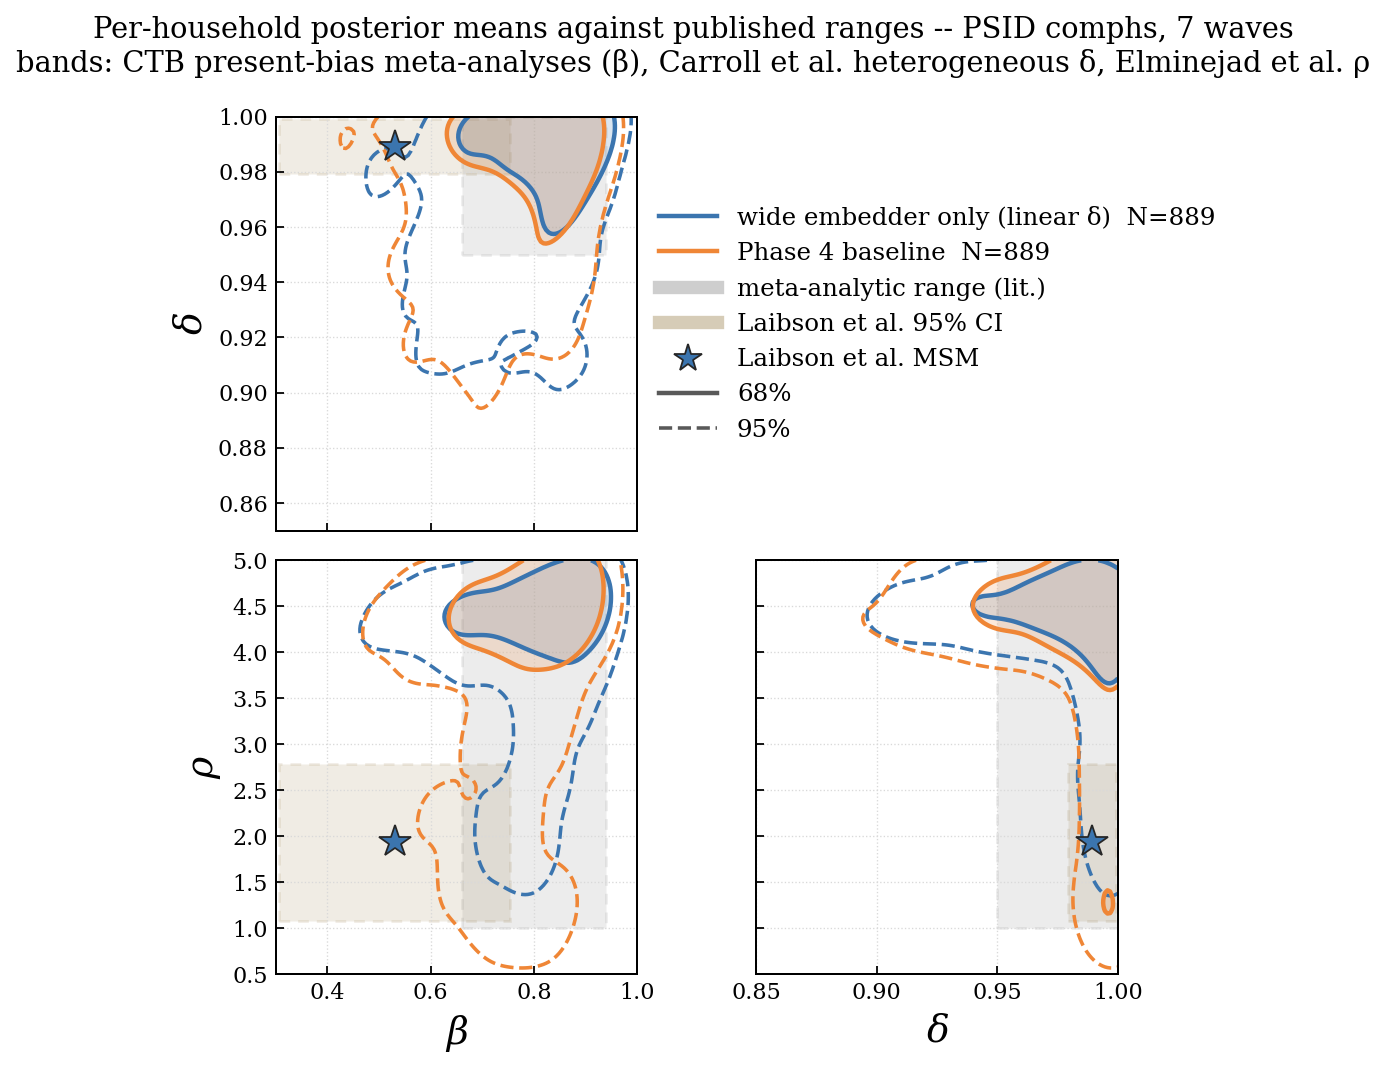
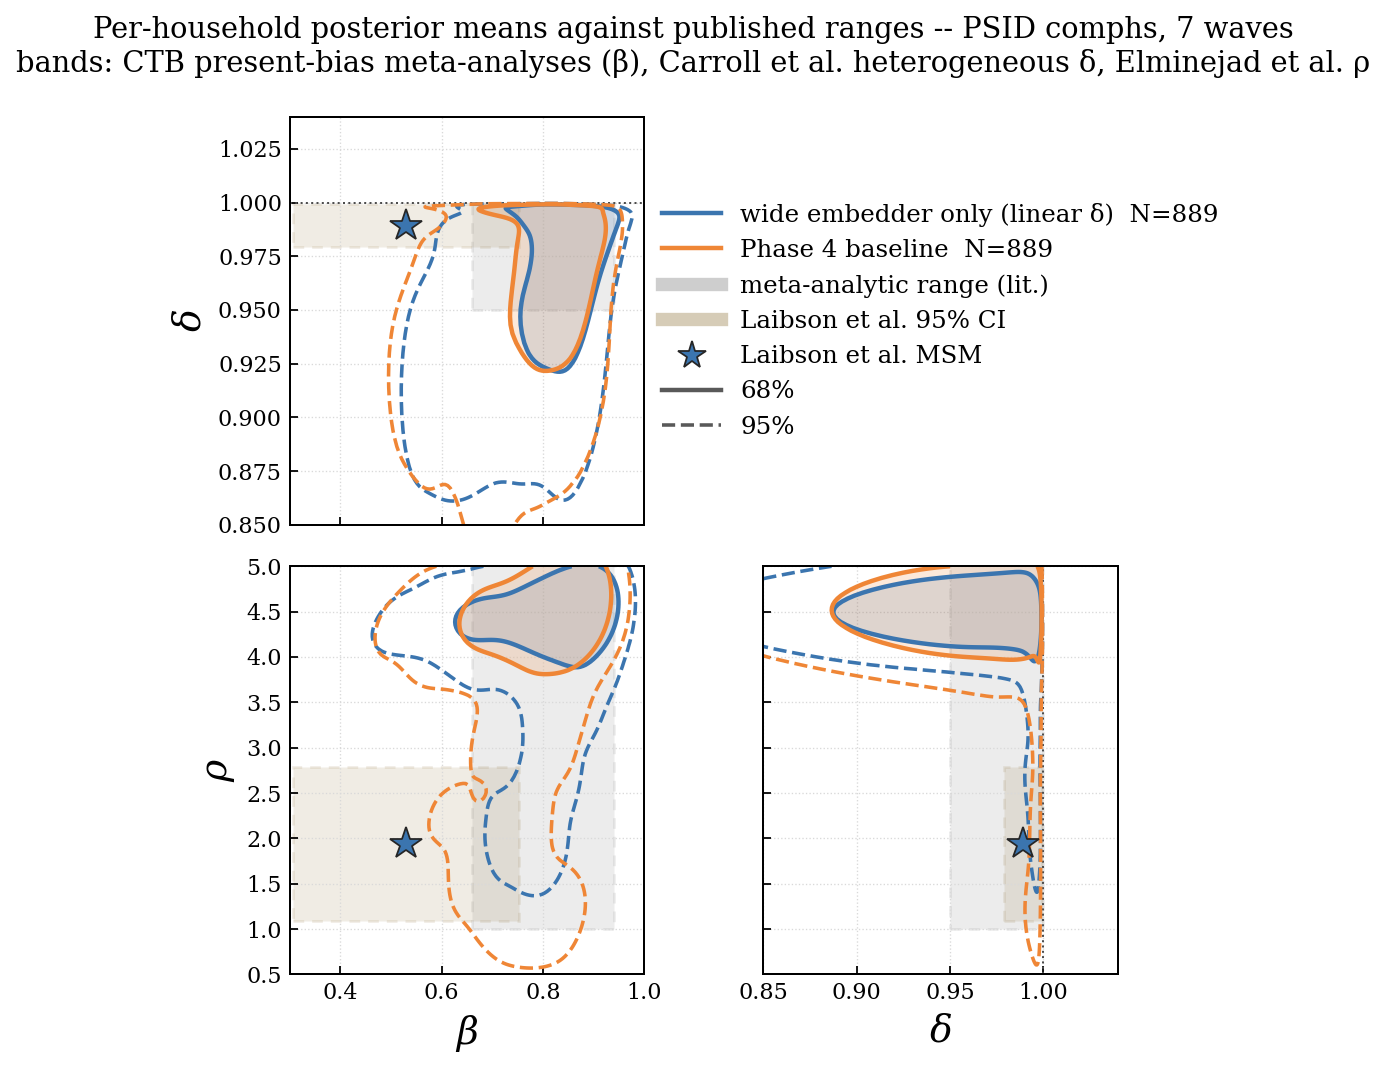
Smooth delta in log(1-delta) space so contours stop drawing the bound
Figure 08 showed a contour running flat along delta = 1.00 even for the
log(1-delta) model, which cannot put delta at or above 1 (max posterior mean
0.999615). The flat edge was a plotting artefact: 48% of comphs households
have posterior means above 0.995 and 22% above 0.998, a pile narrower than
the Gaussian kernel, so the smoothed density spilled past 1 and a grid cut
at 1 drew the contour along the bound.

contour_corner gains log1m_axes. For a listed axis the grid, the KDE fit and
the HPD level computation all happen in u = log(1 - v), with equal cells in
u so _hpd_levels stays valid, and only the coordinates are mapped back for
drawing. The regions are the same credible regions -- mass is invariant to
coordinates -- but now close below 1: the 68% region tops out at delta
0.99932 and the 95% at 0.999659.

Also adds axis_limits, which widens the axes without extending the density,
with the prior bound drawn dotted; figures 08 and 09 now show delta to 1.04.

Adds run_groups_adopted.sh (both section 20 configurations trained for
somehs and compco, then PSID) and plot_groups.sh for their figures.

diff --git a/src/hh_npe/evaluation/plots.py b/src/hh_npe/evaluation/plots.py
@@ -38,20 +38,52 @@ def _hpd_levels(density: np.ndarray, probs=(0.68, 0.95)) -> list[float]:
     return [float(flat[np.searchsorted(csum, p)]) for p in probs][::-1]
 
 
-def _kde_grid(x: np.ndarray, y: np.ndarray, lo, hi, n: int = 140):
+#: Smoothing coordinate for an axis bounded above by 1: u = log(1 - v). The
+#: grid runs to v = 1 - 1e-5, beyond which no posterior mean has been observed
+#: (max 0.99962); the mass past it is negligible and simply not drawn.
+_LOG1M = (lambda v: np.log(1.0 - v), lambda u: 1.0 - np.exp(u), 1e-5)
+
+
+def _axis_grid(lo, hi, n, log1m):
+    """Grid for one axis, uniform in the space the KDE is fitted in."""
+    if not log1m:
+        return np.linspace(lo, hi, n)
+    fwd, _inv, eps = _LOG1M
+    # Uniform in u, running from the low end of v up to v = 1 - eps.
+    return np.linspace(fwd(min(hi, 1.0 - eps)), fwd(lo), n)
+
+
+def _kde_grid(x: np.ndarray, y: np.ndarray, lo, hi, n: int = 140,
+              log1m=(False, False)):
+    """KDE on a grid, optionally fitted in log(1 - v) for either axis.
+
+    With ``log1m`` set for an axis the grid, the fit AND the HPD level
+    computation all happen in ``u = log(1 - v)`` -- equal cells in u, so
+    ``_hpd_levels`` stays valid -- and only the returned coordinates are mapped
+    back to v for drawing. A region holding 68% of the mass holds 68% in any
+    coordinates, so the contours are the same credible regions; what changes is
+    that a Gaussian kernel no longer has to represent a hard wall at v = 1. In
+    v it cannot: households piled at 0.995-0.9996 are narrower than the kernel,
+    the smoothed density spills past 1, and a grid cut at 1 draws a flat contour
+    along the bound that no household produced.
+    """
     from scipy.stats import gaussian_kde
 
-    gx = np.linspace(lo[0], hi[0], n)
-    gy = np.linspace(lo[1], hi[1], n)
+    fwd, inv, _ = _LOG1M
+    gx = _axis_grid(lo[0], hi[0], n, log1m[0])
+    gy = _axis_grid(lo[1], hi[1], n, log1m[1])
     X, Y = np.meshgrid(gx, gy)
+    xf = fwd(x) if log1m[0] else x
+    yf = fwd(y) if log1m[1] else y
     try:
-        k = gaussian_kde(np.vstack([x, y]))
+        k = gaussian_kde(np.vstack([xf, yf]))
     except np.linalg.LinAlgError:
         # A posterior that has collapsed to a point has a singular covariance;
         # nothing to contour, and silently drawing nothing is better than
         # aborting a whole figure over one degenerate series.
         return X, Y, None
-    return X, Y, k(np.vstack([X.ravel(), Y.ravel()])).reshape(X.shape)
+    Z = k(np.vstack([X.ravel(), Y.ravel()])).reshape(X.shape)
+    return (inv(X) if log1m[0] else X), (inv(Y) if log1m[1] else Y), Z
 
 
 #: Muted hues for external ranges, chosen to sit behind the series palette.
@@ -66,6 +98,8 @@ def contour_corner(
     path: str | Path | None = None,
     title: str | None = None,
     probs=(0.68, 0.95),
+    axis_limits: tuple | None = None,
+    log1m_axes: tuple[str, ...] = (),
 ):
     """Lower-triangle pairwise contour plot of posterior samples.
 
@@ -87,6 +121,18 @@ def contour_corner(
         Drawn first and unfilled at the edges so they never obscure a contour.
     probs
         Enclosed-mass levels. Default 68% (filled) and 95% (dashed).
+    axis_limits
+        Optional ``(low, high)`` arrays that widen the *axes only*. The density
+        is still evaluated on ``box``, so the region outside it stays empty
+        rather than filling with kernel smoothing: a KDE of households piled at
+        delta ~ 0.998 would otherwise draw contours above 1.00 that no
+        household occupies. Use it to show that a bound is empty, not to
+        pretend it is not there.
+    log1m_axes
+        Parameter names (e.g. ``("delta",)``) whose density is smoothed in
+        ``log(1 - v)`` rather than ``v``. For an axis with a hard wall at 1 that
+        the posterior piles against; see ``_kde_grid``. Requires every sample on
+        that axis to be strictly below 1.
     """
     import matplotlib
     matplotlib.use("Agg")
@@ -120,7 +166,11 @@ def contour_corner(
                     ls=(0, (4, 3)), zorder=0))
         for c, (label, s) in zip(PALETTE, series.items()):
             s = np.asarray(s)
-            X, Y, Z = _kde_grid(s[:, i], s[:, j], (lo[i], lo[j]), (hi[i], hi[j]))
+            lm = (names[i] in log1m_axes, names[j] in log1m_axes)
+            if any(lm) and (s[:, [k for k, f in zip((i, j), lm) if f]] >= 1).any():
+                raise ValueError("log1m_axes needs samples strictly below 1")
+            X, Y, Z = _kde_grid(s[:, i], s[:, j], (lo[i], lo[j]), (hi[i], hi[j]),
+                                log1m=lm)
             if Z is None:
                 continue
             lv = _hpd_levels(Z, probs)
@@ -135,8 +185,14 @@ def contour_corner(
             for c, t in zip(PALETTE, truth.values()):
                 ax.plot(t[i], t[j], marker="*", ms=15, color=c,
                         mec="0.15", mew=0.8, zorder=5, ls="none")
-        ax.set_xlim(lo[i], hi[i])
-        ax.set_ylim(lo[j], hi[j])
+        alo, ahi = (lo, hi) if axis_limits is None else map(np.asarray, axis_limits)
+        ax.set_xlim(alo[i], ahi[i])
+        ax.set_ylim(alo[j], ahi[j])
+        if axis_limits is not None:
+            # Mark the prior bound wherever the axes run past it.
+            for k, setter in ((i, ax.axvline), (j, ax.axhline)):
+                if ahi[k] > hi[k]:
+                    setter(hi[k], color="0.3", lw=0.9, ls=":", zorder=1)
         ax.grid(True, ls=":", lw=0.6, color="0.85")
         ax.set_axisbelow(True)
         if j == d - 1:

diff --git a/scripts/plot_adopted_posterior.py b/scripts/plot_adopted_posterior.py
@@ -48,6 +48,12 @@ def main() -> None:
     ap.add_argument("--current", type=Path, default=Path("outputs/psid_adopted"))
     ap.add_argument("--baseline", type=Path,
                     default=Path("outputs/psid_phase4_comphs"))
+    ap.add_argument("--delta_top", type=float, default=1.04,
+                    help="Upper end of the delta AXIS. The prior bound at 1.00 "
+                         "is drawn as a dotted line; the density is not "
+                         "extended past it (see contour_corner's axis_limits).")
+    ap.add_argument("--baseline_label", default="Phase 4 baseline")
+    ap.add_argument("--title_group", default="comphs")
     ap.add_argument("--label", default="current model: wide embedder, log(1-δ)",
                     help="Legend name for --current.")
     ap.add_argument("--out", type=Path,
@@ -57,7 +63,7 @@ def main() -> None:
     cur, base = means(args.current), means(args.baseline)
     series = {
         f"{args.label}  N={len(cur)}": cur,
-        f"Phase 4 baseline  N={len(base)}": base,
+        f"{args.baseline_label}  N={len(base)}": base,
     }
     for k, v in series.items():
         print(f"{k}\n  median {np.median(v, 0).round(4)}  sd {v.std(0).round(4)}")
@@ -69,8 +75,12 @@ def main() -> None:
         bands={"meta-analytic range (lit.)": META,
                "Laibson et al. 95% CI": laibson_ci()},
         path=args.out,
+        log1m_axes=("delta",),
+        axis_limits=(PHASE3.low,
+                     np.where(np.array(PHASE3.names) == "delta",
+                              args.delta_top, PHASE3.high)),
         title="Per-household posterior means against published ranges -- PSID "
-              "comphs, 7 waves\nbands: CTB present-bias meta-analyses (β), "
+              f"{args.title_group}, 7 waves\nbands: CTB present-bias meta-analyses (β), "
               "Carroll et al. heterogeneous δ, Elminejad et al. ρ",
     )
     print(f"wrote {args.out}")
